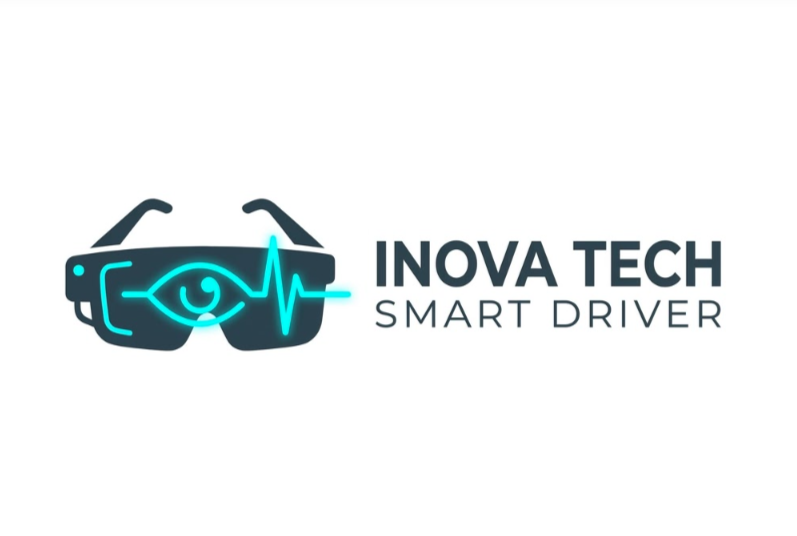
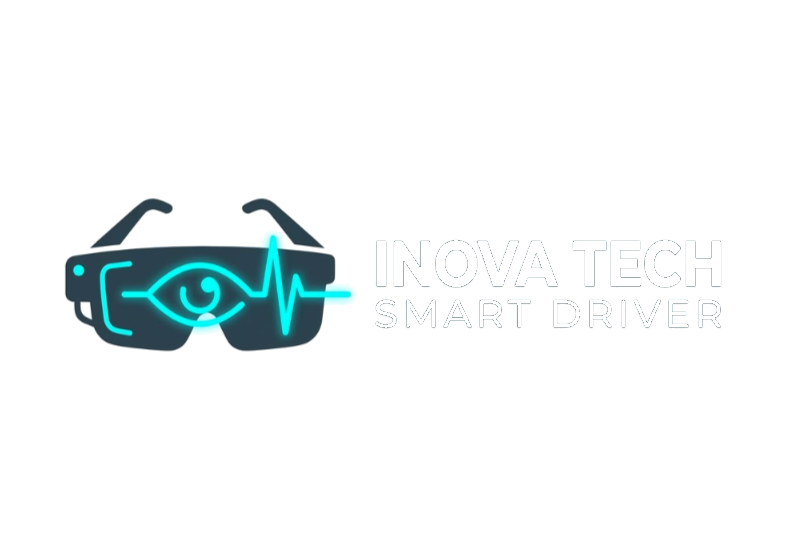
Adiciona informações do projeto e atualiza produtos
Adicionado público alvo, diferencial e objetivo na Home.
Adicionada logo centralizada com fundo transparente.
Corrigido o espaçamento dos botões.
Atualizados os produtos e valores do projeto.
Adicionada a foto real dos óculos no resultado final.
Adicionada capa visual para o vídeo do manual.
Ajustado o layout da página de produtos.

Changed region(s): [[0.4517, 0.4478, 0.9034, 0.6269]]

diff --git a/index.html b/index.html
@@ -12,11 +12,12 @@
 		.brand { display:flex; align-items:center; gap:12px; color:var(--text); font:700 20px 'Barlow Condensed',sans-serif; letter-spacing:1.5px; } .brand img { width:42px; height:42px; object-fit:contain; filter:brightness(.85) contrast(1.25); } .brand small { display:block; color:var(--cyan); font:10px 'Space Mono'; letter-spacing:1px; }
 		nav { display:flex; gap:8px; align-items:center; } nav button { border:0; border-bottom:2px solid transparent; padding:28px 18px 25px; color:var(--muted); background:transparent; cursor:pointer; font-size:11px; } nav button:hover, nav button.active { color:var(--cyan); border-bottom-color:var(--cyan); } .tools { display:flex; gap:9px; } .icon-btn { width:35px; height:35px; border:1px solid #176174; color:var(--cyan); background:#092638; cursor:pointer; }
 		main { padding:32px 42px 54px; } .view { display:none; animation:appear .45s ease both; } .view.active { display:block; } @keyframes appear { from { opacity:0; transform:translateY(7px); } to { opacity:1; transform:none; } }
-		.hero { border:1px solid var(--cyan); min-height:300px; display:flex; justify-content:center; align-items:center; text-align:center; overflow:hidden; background:radial-gradient(circle at 50% 52%,#0c3044 0,#061b2a 36%,#031522 72%); } .hero-content { max-width:720px; } .eyebrow { color:var(--cyan); font-size:10px; letter-spacing:3px; text-transform:uppercase; } h1,h2,h3 { font-family:'Barlow Condensed',sans-serif; text-transform:uppercase; margin:10px 0; letter-spacing:1px; } h1 { font-size:39px; line-height:1; } h2 { font-size:28px; } h3 { font-size:18px; } .hero p { color:var(--muted); font-size:11px; line-height:1.8; max-width:560px; margin:16px auto 25px; } .actions { display:flex; justify-content:center; gap:10px; flex-wrap:wrap; } .btn { border:1px solid var(--cyan); color:#00181e; background:var(--cyan); padding:11px 22px; cursor:pointer; font-size:10px; font-weight:700; text-transform:uppercase; } .btn.outline { color:var(--cyan); background:transparent; }
+		.hero { border:1px solid var(--cyan); min-height:300px; padding:34px 20px 40px; display:flex; justify-content:center; align-items:center; text-align:center; overflow:hidden; background:radial-gradient(circle at 50% 52%,#0c3044 0,#061b2a 36%,#031522 72%); } .hero-content { max-width:720px; } .hero-content:before { content:''; display:block; width:min(420px,80vw); height:88px; margin:0 auto 18px; background:url('image.png') center/contain no-repeat; } .eyebrow { color:var(--cyan); font-size:10px; letter-spacing:3px; text-transform:uppercase; } h1,h2,h3 { font-family:'Barlow Condensed',sans-serif; text-transform:uppercase; margin:10px 0; letter-spacing:1px; } h1 { font-size:39px; line-height:1; } h2 { font-size:28px; } h3 { font-size:18px; } .hero p { color:var(--muted); font-size:11px; line-height:1.8; max-width:560px; margin:16px auto 25px; } .actions { display:flex; justify-content:center; gap:10px; flex-wrap:wrap; } .btn { border:1px solid var(--cyan); color:#00181e; background:var(--cyan); padding:11px 22px; cursor:pointer; font-size:10px; font-weight:700; text-transform:uppercase; } .btn.outline { color:var(--cyan); background:transparent; }
 		.section-title { display:flex; align-items:center; justify-content:space-between; margin:40px 0 16px; border-bottom:1px solid #16495b; padding-bottom:10px; } .section-title h2 { margin:0; font-size:17px; } .grid,.metrics { display:grid; grid-template-columns:repeat(3,1fr); gap:12px; } .metrics { margin-top:34px; } .card { border:1px solid #1c6073; background:linear-gradient(145deg,#123349,#071e2e); padding:18px; min-height:118px; } .metric { border-top:2px solid var(--cyan); min-height:102px; } .card-label { display:flex; justify-content:space-between; color:var(--cyan); font-size:10px; text-transform:uppercase; } .value { font:700 25px 'Barlow Condensed'; margin:12px 0 4px; } .value small { font:11px 'Space Mono'; color:var(--muted); } .card p { color:var(--muted); font-size:9px; line-height:1.7; margin:8px 0 0; } .bar { height:5px; background:#102f41; margin-top:14px; } .bar span { display:block; height:100%; background:var(--cyan); width:66%; }
 		.manual-top { display:grid; grid-template-columns:1.5fr 1fr; gap:14px; } .manual-video { min-height:280px; border:1px solid #1c6073; background:linear-gradient(135deg,#0b2b3e,#061a28); display:flex; align-items:center; justify-content:center; position:relative; } .manual-video:after { content:'▶'; display:grid; place-items:center; width:55px; height:55px; border:1px solid var(--cyan); border-radius:50%; color:var(--cyan); background:#062c3b; } .spec { padding:22px; border-left:2px solid var(--cyan); } .spec strong { color:var(--cyan); font-size:12px; } .spec p { margin-top:18px; } .steps { display:grid; grid-template-columns:repeat(2,1fr); gap:12px; margin-top:14px; } .step { display:flex; gap:14px; align-items:flex-start; min-height:110px; } .step-number { color:#00181e; background:var(--cyan); padding:7px 9px; font-weight:bold; } .step h3 { margin-top:0; font-size:14px; } .step p { margin:0; } .product-layout { display:grid; grid-template-columns:1.5fr 1fr; gap:14px; align-items:start; } .product-result { min-height:280px; border:1px solid var(--cyan); background:linear-gradient(145deg,#123349,#061a28); padding:22px; position:relative; overflow:hidden; } .product-result:before { content:'INOVA TECH'; position:absolute; top:26px; right:24px; color:#2a6878; font:700 13px 'Barlow Condensed'; letter-spacing:2px; } .prototype { height:164px; margin:24px auto 18px; max-width:360px; border:2px solid #1c6073; background:linear-gradient(135deg,#0c3044,#061522); position:relative; display:grid; place-items:center; box-shadow:inset 0 0 0 8px #092638, 0 0 28px #032c3b; } .prototype:before { content:'SMART DRIVER'; color:var(--cyan); border:1px solid var(--cyan); padding:13px 18px; font:700 17px 'Barlow Condensed'; letter-spacing:2px; } .prototype:after { content:'◉  ECG   ◉  RASPBERRY PI   ◉  HUD'; position:absolute; bottom:12px; color:var(--muted); font-size:8px; letter-spacing:1px; } .product-result p { color:var(--muted); font-size:10px; line-height:1.7; margin:0; }
 		table { border-collapse:collapse; width:100%; font-size:10px; } th,td { border-bottom:1px solid #244253; padding:14px 10px; text-align:left; } th { color:var(--muted); font-weight:400; text-transform:uppercase; } td:first-child { color:var(--cyan); } td:last-child { color:var(--orange); text-align:right; } .table-wrap { border:1px solid #23475a; background:#0b2233; padding:10px; overflow-x:auto; } footer { border-top:1px solid #123a4b; display:flex; justify-content:space-between; gap:30px; padding:24px 42px; color:#6d8994; font-size:9px; }
 		.manual-video:before { content:'MANUAL DE OPERAÇÕES  /  INOVATECH-500\A\A  SMART DRIVER\A\A  HUD        ECG        ALERTAS'; white-space:pre; width:78%; height:164px; padding:18px; border:1px solid #1c6073; color:var(--cyan); background:radial-gradient(ellipse at 50% 52%,transparent 0 18%,#0b3044 19% 20%,transparent 21%), linear-gradient(145deg,#0d3447,#061522); box-shadow:inset 0 0 0 7px #092638, inset 0 0 22px #0a5362; font:700 10px/1.55 'Space Mono'; letter-spacing:1px; text-align:center; display:grid; place-items:center; opacity:.9; }
+		.hero h1:after { content:'DIFERENCIAL: BIOMETRIA EM TEMPO REAL  |  PÚBLICO-ALVO: MOTORISTAS E OPERADORES INDUSTRIAIS  |  OBJETIVO: PREVENIR RISCOS'; display:block; max-width:650px; margin:22px auto 0; color:var(--cyan); font:700 9px/1.8 'Space Mono'; letter-spacing:1px; }
 		@media (max-width:800px) { header { height:auto; padding:16px 18px 0; flex-wrap:wrap; } nav { order:3; width:100%; overflow:auto; } nav button { padding:17px 12px 14px; white-space:nowrap; } main { padding:22px 18px 40px; } .grid,.metrics { grid-template-columns:1fr; } .manual-top,.steps { grid-template-columns:1fr; } h1 { font-size:31px; } footer { padding:20px 18px; flex-direction:column; gap:8px; } }
 		#ecosystem .section-title { flex-wrap:wrap; }
 		#ecosystem .section-title:after { content:'Componentes técnicos do módulo de segurança para implementação do sistema Smart Driver.'; order:3; width:100%; margin-top:8px; color:var(--muted); font-size:9px; line-height:1.6; }
@@ -25,6 +26,8 @@
 		#ecosystem .product-result { order:2; width:100%; min-height:220px; }
 		#ecosystem .table-wrap td:first-child:before { content:'▣ '; color:var(--cyan); }
 		#ecosystem .table-wrap th, #ecosystem .table-wrap td { padding:14px 12px; }
+		#ecosystem .prototype { background:url('oculos.png') center/cover no-repeat; }
+		#ecosystem .prototype:before { content:none; }
 	</style>
 </head>
 <body>
@@ -32,7 +35,7 @@
 		<main>
 			<section id="home" class="view active"><div class="hero"><div class="hero-content"><div class="eyebrow">Monitoramento inteligente em movimento</div><h1>Monitoramento biométrico de<br><span style="color:var(--cyan)">alta performance</span></h1><p>Segurança em tempo real para operações industriais. Antecipe riscos, otimize eficiência e garanta um ambiente operacional protegido através de telemetria avançada e resposta imediata.</p><div class="actions"><button class="btn" data-view="manual">Ver manual completo</button><button class="btn outline" data-view="ecosystem">Conheça o ecossistema</button></div></div></div><div class="section-title"><h2>▣ Telemetria biométrica</h2><span class="eyebrow">AO VIVO · 08:42:16</span></div><div class="metrics"><article class="card metric"><div class="card-label">Frequência cardíaca <span>♡</span></div><div class="value">NORMAL</div><div class="bar"><span style="width:47%"></span></div><p>72 BPM · estabilidade dentro dos parâmetros</p></article><article class="card metric"><div class="card-label">Presença cognitiva <span>⌁</span></div><div class="value">ESTÁVEL</div><div class="bar"><span style="width:78%"></span></div><p>98% de foco operacional detectado</p></article><article class="card metric"><div class="card-label">Estado coletivo <span>⌁</span></div><div class="value">BAIXO</div><div class="bar"><span style="width:26%"></span></div><p>0.4 índice de risco · zona segura</p></article></div><div class="grid" style="margin-top:34px"><article class="card"><div class="card-label">◉ PÚBLICO-ALVO</div><h3>Para quem dirige e opera</h3><p>Motoristas profissionais, operadores industriais e empresas de transporte que precisam reduzir riscos durante a operação.</p></article><article class="card" style="border-color:var(--cyan)"><div class="card-label">ϟ DIFERENCIAL</div><h3>Biometria em tempo real</h3><p>O Smart Driver integra wearable, sensores e veículo para transformar sinais do condutor em alertas imediatos.</p></article><article class="card"><div class="card-label">⌁ OBJETIVO</div><h3>Prevenir antes do risco</h3><p>Identificar fadiga, perda de atenção e alterações físicas para apoiar decisões rápidas e tornar a operação mais segura.</p></article></div></section>
 			<section id="manual" class="view"><div class="eyebrow">INOVA TECH SMART DRIVER / DOCUMENTAÇÃO</div><h2>Manual de operações</h2><p style="color:var(--muted);font-size:11px;max-width:570px;line-height:1.8">Guia técnico passo a passo para instalação e operação do sistema InovaTech Smart Driver.</p><div class="manual-top"><div class="manual-video"><div style="position:absolute;bottom:16px;left:18px;color:var(--cyan);font-size:10px">▶ EXPLICAÇÃO VISUAL · 04:28</div></div><article class="card spec"><strong>◫ INOVA TECH-500</strong><h3>Unidade central</h3><p>Processamento biométrico de alta precisão, conectado ao wearable e aos sensores do veículo.</p><p><span style="color:var(--muted)">STATUS DO SISTEMA</span><br><span style="color:var(--cyan)">● OPERACIONAL</span></p></article></div><div class="steps"><article class="card step"><b class="step-number">01</b><div><h3>Conexão do wearable</h3><p>Insira o dispositivo, verifique o LED de conexão e aguarde a sincronização.</p></div></article><article class="card step"><b class="step-number">02</b><div><h3>Configuração da unidade central</h3><p>Conecte a unidade à rede e confirme o pareamento com os sensores.</p></div></article><article class="card step"><b class="step-number">03</b><div><h3>Calibração</h3><p>Execute o teste de calibração para iniciar o monitoramento preciso.</p></div></article><article class="card step"><b class="step-number">04</b><div><h3>Monitoramento HUD</h3><p>Confira os indicadores vitais e o mapa de risco no painel do veículo.</p></div></article></div></section>
-			<section id="ecosystem" class="view"><div class="eyebrow">INOVA TECH / INVENTÁRIO</div><div class="section-title" style="margin-top:8px"><h2>Ecossistema de segurança</h2><button class="btn">+ Adicionar item</button></div><div class="product-layout"><article class="product-result"><div class="eyebrow">RESULTADO FINAL DO PROJETO</div><h3>Smart Driver montado</h3><div class="prototype" aria-label="Representação visual do protótipo Smart Driver"></div><p>Protótipo integrado para leitura biométrica, processamento central e visualização dos alertas de segurança no veículo.</p></article><div class="table-wrap"><table><thead><tr><th>Módulo</th><th>Descrição técnica</th><th>Quantidade</th><th>Custo unitário</th></tr></thead><tbody><tr><td>ESP32-S3</td><td>Processamento do wearable</td><td>01</td><td>R$ 150,00</td></tr><tr><td>Raspberry Pi 4</td><td>Unidade de processamento central</td><td>01</td><td>R$ 650,00</td></tr><tr><td>Sensores de ECG</td><td>Monitoramento biométrico</td><td>01</td><td>R$ 200,00</td></tr><tr><td>Estrutura 3D e Case</td><td>Design e proteção do dispositivo</td><td>01</td><td>R$ 150,00</td></tr><tr><td>Cabos e Acessórios</td><td>Conectividade e energia</td><td>01</td><td>R$ 50,00</td></tr></tbody></table><div style="display:flex;justify-content:space-between;padding:18px 10px 6px;color:var(--muted);font-size:10px">ESTIMATIVA DO PROJETO <strong style="color:var(--cyan);font-size:17px">CUSTO TOTAL: R$ 1.200,00</strong></div></div></div></section>
+			<section id="ecosystem" class="view"><div class="eyebrow">INOVA TECH / INVENTÁRIO</div><div class="section-title" style="margin-top:8px"><h2>Ecossistema de segurança</h2><button class="btn">+ Adicionar item</button></div><div class="product-layout"><article class="product-result"><div class="eyebrow">RESULTADO FINAL DO PROJETO</div><h3>Smart Driver montado</h3><div class="prototype" aria-label="Representação visual do protótipo Smart Driver"></div><p>Protótipo integrado para leitura biométrica, processamento central e visualização dos alertas de segurança no veículo.</p></article><div class="table-wrap"><table><thead><tr><th>Módulo</th><th>Descrição técnica</th><th>Quantidade</th><th>Custo unitário</th></tr></thead><tbody><tr><td>Óculos</td><td>Armação com componentes do Smart Driver</td><td>01</td><td>R$ 160,00</td></tr><tr><td>Arduino pequeno</td><td>Processamento e controle dos componentes</td><td>01</td><td>R$ 150,00</td></tr><tr><td>Webcam</td><td>Captura de imagem em tempo real</td><td>01</td><td>R$ 110,00</td></tr><tr><td>Sensor ultrassônico</td><td>Detecção de distância</td><td>01</td><td>R$ 60,00</td></tr><tr><td>Fios</td><td>Conexão dos componentes</td><td>01</td><td>R$ 60,00</td></tr><tr><td>Microfone/alto-falante</td><td>Alertas sonoros do sistema</td><td>01</td><td>R$ 60,00</td></tr></tbody></table><div style="display:flex;justify-content:space-between;padding:18px 10px 6px;color:var(--muted);font-size:10px">ESTIMATIVA DO PROJETO <strong style="color:var(--cyan);font-size:17px">CUSTO TOTAL: R$ 600,00</strong></div></div></div></section>
 		</main><footer><strong>INOVATECH SMART DRIVER</strong><span>Termos de uso　 Política de privacidade　 Suporte técnico</span><span>© 2024 INOVATECH · SISTEMA DE SEGURANÇA INDUSTRIAL</span></footer>
 	</div><script>document.querySelectorAll('[data-view]').forEach(function (control) { control.addEventListener('click', function () { var target = control.dataset.view; document.querySelectorAll('.view').forEach(function (view) { view.classList.toggle('active', view.id === target); }); document.querySelectorAll('nav button').forEach(function (button) { button.classList.toggle('active', button.dataset.view === target); }); window.scrollTo({ top:0, behavior:'smooth' }); }); });</script>
 </body>
